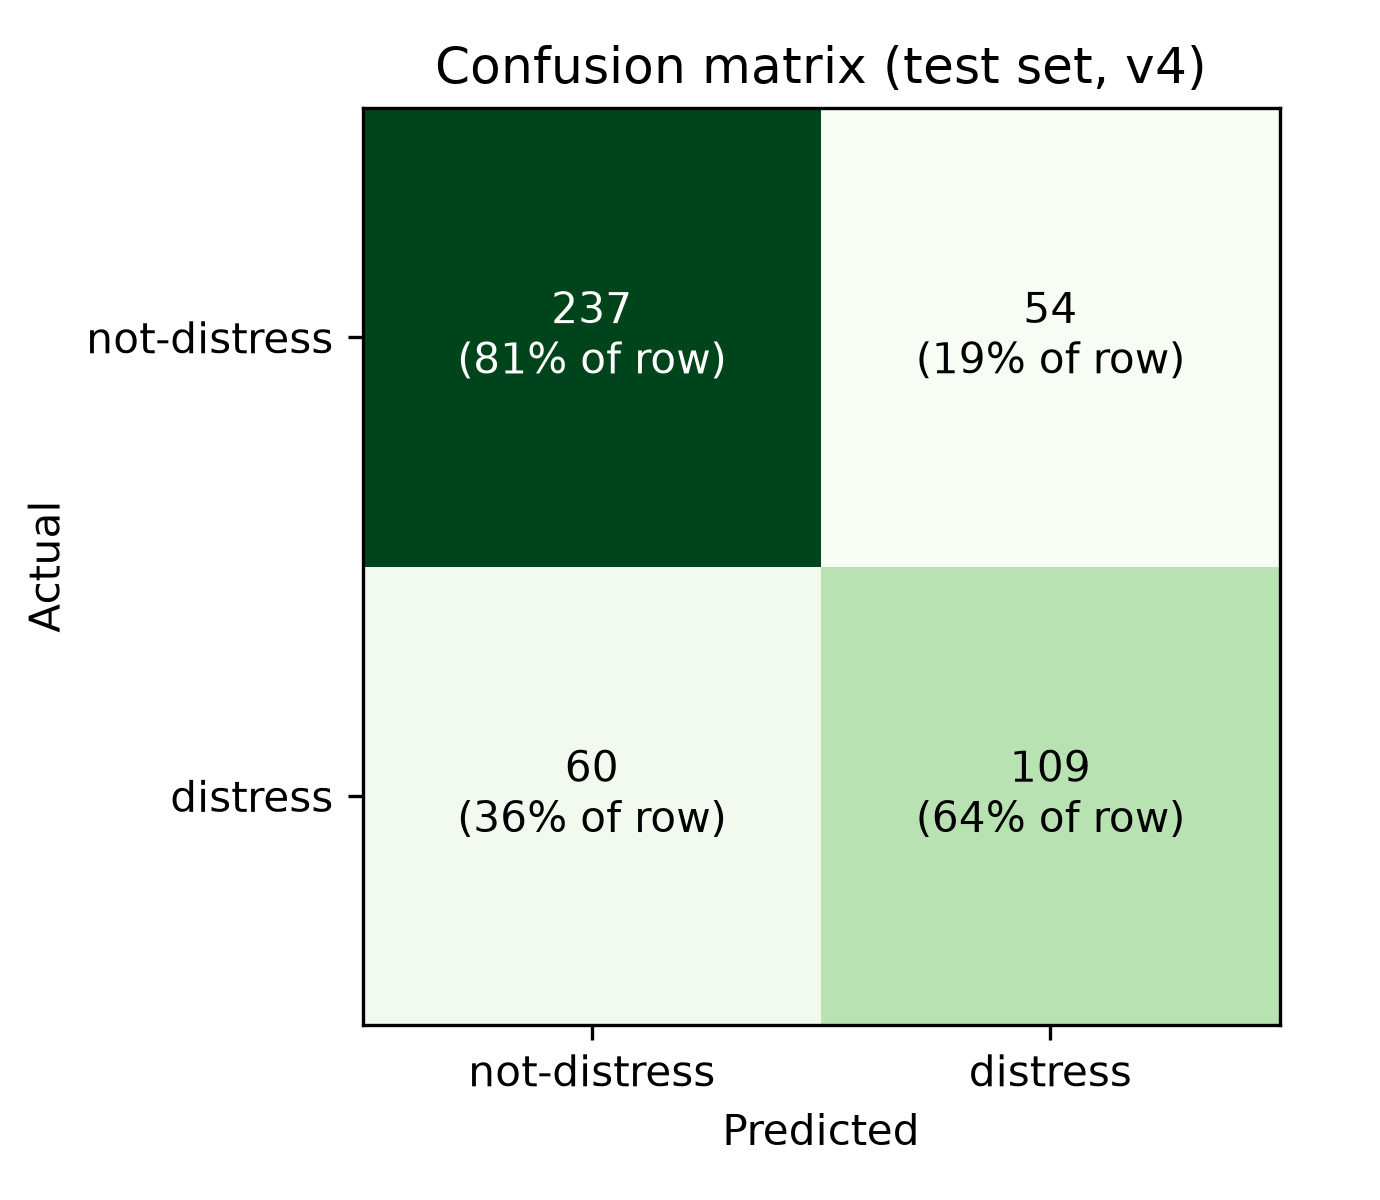
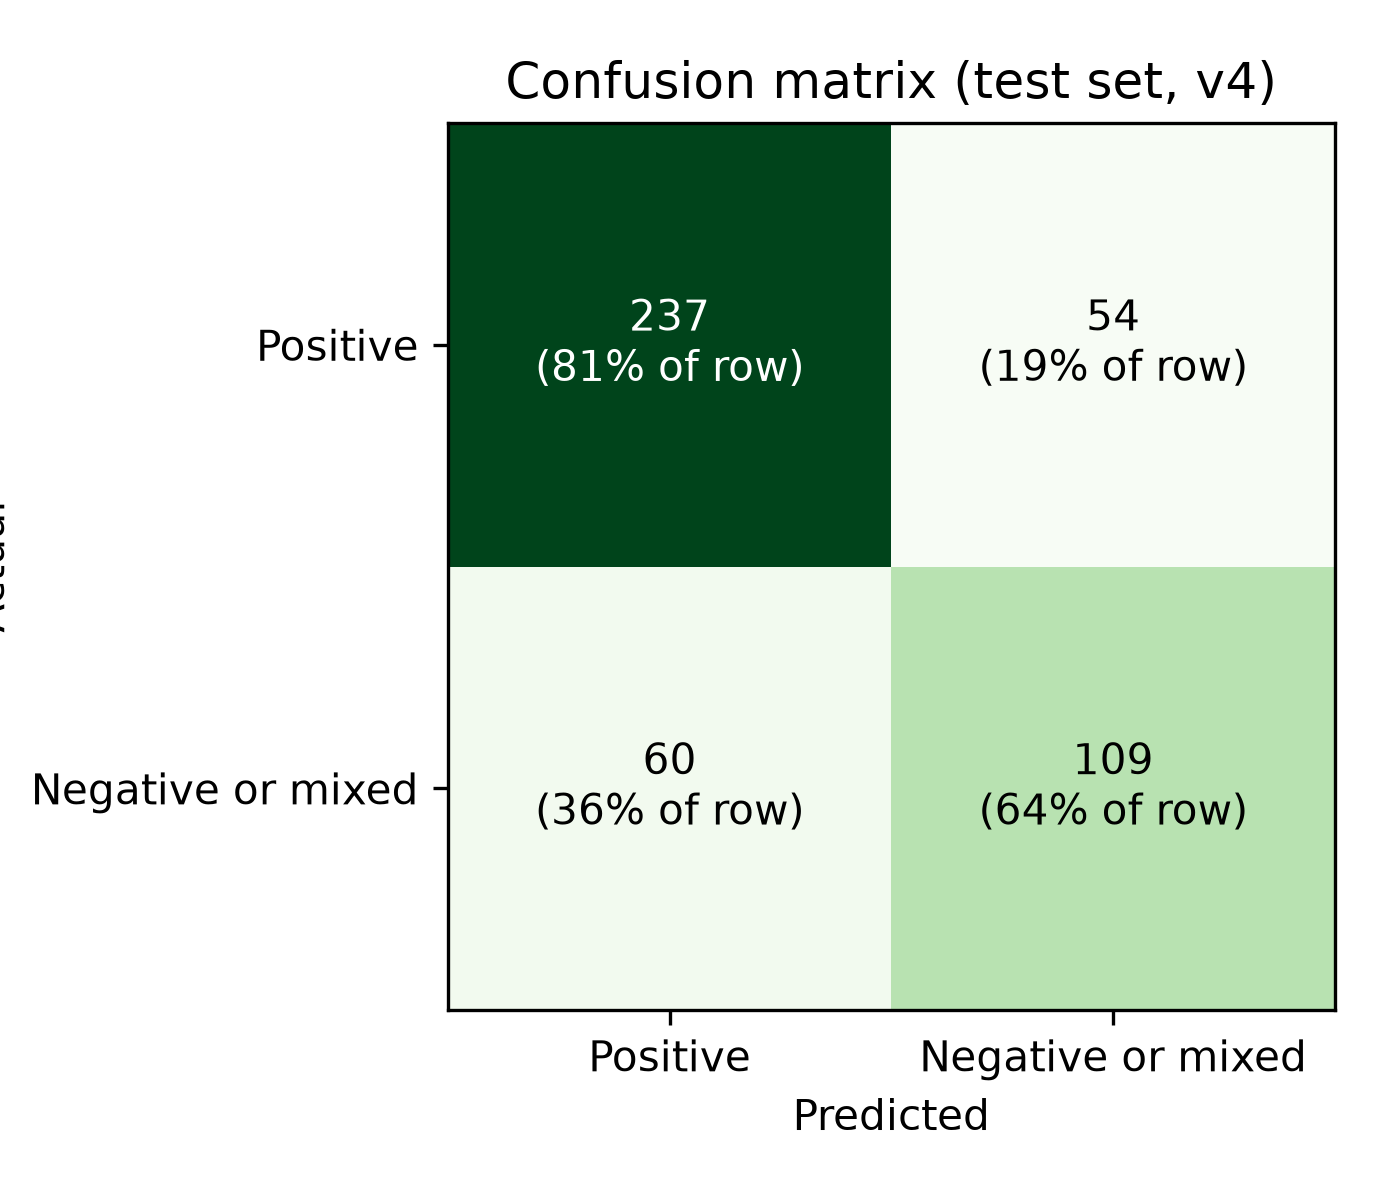
Confusion matrix labels: Positive / Negative or mixed

Changed region(s): [[0.0312, 0.0308, 0.9971, 0.9558], [0.0, 0.4317, 0.0623, 0.5242]]

diff --git a/model/training/metrics_full.py b/model/training/metrics_full.py
@@ -181,8 +181,8 @@ def save_outputs(rows, df, outdir):
             pct = 100 * cm[i, j] / cm[i].sum() if cm[i].sum() else 0
             ax.text(j, i, f"{cm[i, j]}\n({pct:.0f}% of row)", ha="center", va="center", fontsize=10,
                     color="white" if cm[i, j] > cm.max() * 0.6 else "black")
-    ax.set_xticks([0, 1]); ax.set_xticklabels(["not-distress", "distress"])
-    ax.set_yticks([0, 1]); ax.set_yticklabels(["not-distress", "distress"])
+    ax.set_xticks([0, 1]); ax.set_xticklabels(["Positive", "Negative or mixed"])
+    ax.set_yticks([0, 1]); ax.set_yticklabels(["Positive", "Negative or mixed"])
     ax.set_xlabel("Predicted"); ax.set_ylabel("Actual"); ax.set_title("Confusion matrix (test set, v4)")
     fig.tight_layout(); fig.savefig(outdir / "confusion_matrix_v4.png"); plt.close(fig)
     # ROC curves
